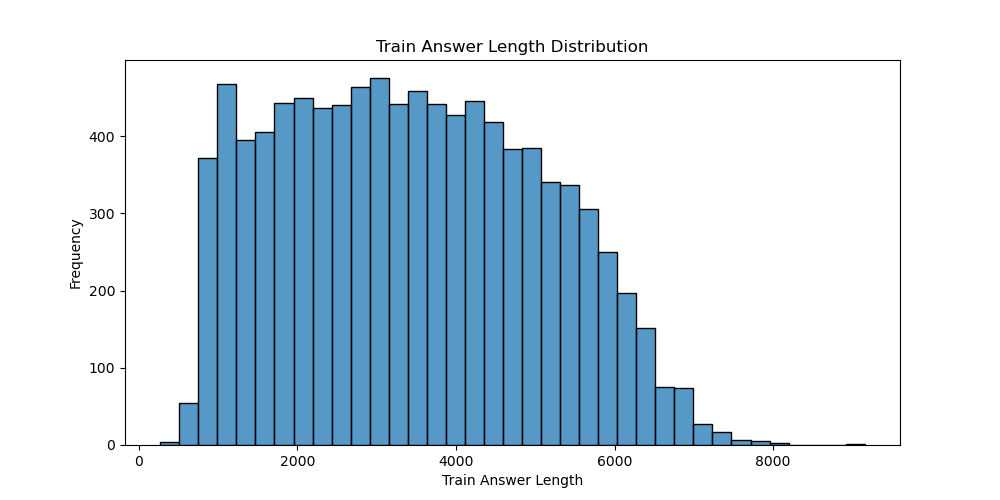
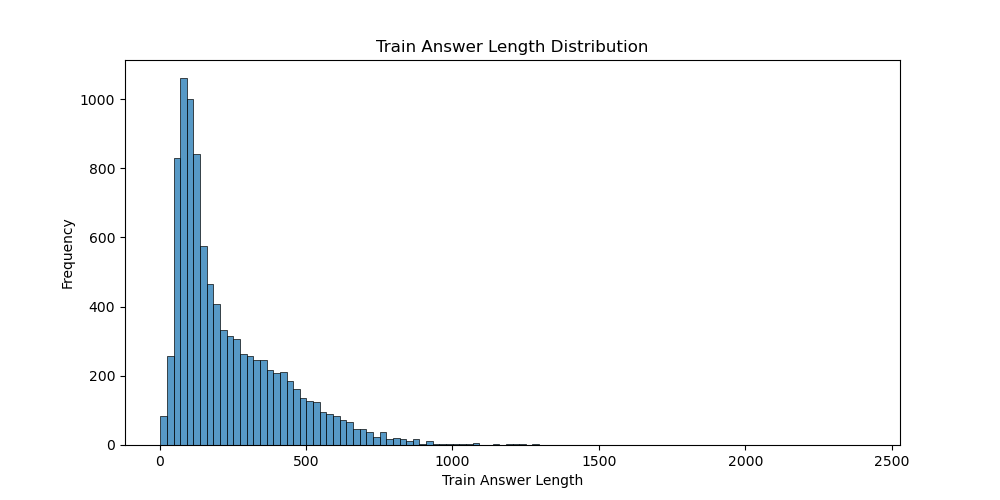
create documents

diff --git a/CreateDocuments.py b/CreateDocuments.py
@@ -1,0 +1,36 @@
+import numpy as np
+import pandas as pd
+from langchain_text_splitters import RecursiveCharacterTextSplitter
+
+
+RAW_TRAIN_DATA_PATH = 'rag-dataset-12000/data/train-00000-of-00001-9df3a936e1f63191.parquet'
+RAW_TEST_DATA_PATH = 'rag-dataset-12000/data/test-00000-of-00001-af2a9f454ad1b8a3.parquet'
+
+
+def join_original_contexts(dataset_path):
+    df = pd.read_parquet(dataset_path).head(2) # For testing purposes
+    text = df['context'].array
+    for i in range(len(text)):
+        assert '<sep>' not in text[i]
+    text = '<sep>'.join(text)
+    return text
+
+def split_into_documents(dataset_path):
+    
+    original_contexts = join_original_contexts(dataset_path)
+    original_contexts = original_contexts.split('<sep>')
+
+    documents = []
+    for original_context in original_contexts:
+        # https://python.langchain.com/docs/modules/data_connection/document_transformers/recursive_text_splitter/
+        text_splitter = RecursiveCharacterTextSplitter(
+            chunk_size=200, # TODO: determine optimal chunk size
+            chunk_overlap=20,
+        )
+        documents.extend(text_splitter.create_documents(original_context))
+    return documents
+    
+
+if __name__ == '__main__':
+    documents = split_into_documents(RAW_TRAIN_DATA_PATH)
+    print(len(documents))

diff --git a/EDA.py b/EDA.py
@@ -25,16 +25,15 @@ def EDA():
             print(f'  {col}')
 
             # Average Length
-            context_lengths = df['context'].str.len()
-            print(f'    Average {col} Length: {context_lengths.mean()}')
+            lengths = df[col].str.len()
+            print(f'    Average {col} Length: {lengths.mean()}')
 
             # Max Length
-            context_lengths = df['context'].str.len()
-            print(f'    Max {col} Length: {context_lengths.max()}')
+            print(f'    Max {col} Length: {lengths.max()}')
 
             # Length Distribution
             fig, ax = plt.subplots(1, 1, figsize=(10, 5))
-            sns.histplot(context_lengths, ax=ax)
+            sns.histplot(lengths, ax=ax)
             ax.set_title(f'{dataset} {col.capitalize()} Length Distribution')
             ax.set_xlabel(f'{dataset} {col.capitalize()} Length')
             ax.set_ylabel('Frequency')
